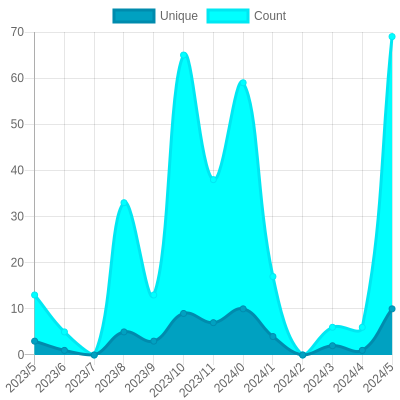
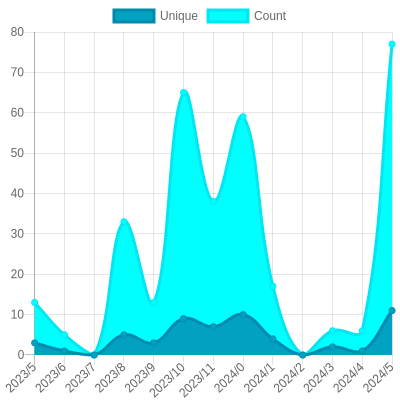
Update views

diff --git a/readme/182812956/year.md b/readme/182812956/year.md
@@ -23,10 +23,10 @@
 			<code>2023/6/1</code>
 		</td>
 		<td>
-			<code>10</code>
+			<code>11</code>
 		</td>
 		<td>
-			<code>69</code>
+			<code>77</code>
 		</td>
 	</tr>
 	<tr>
@@ -164,7 +164,7 @@
 </table>
 
 </details>
-<small><i>Last updated on 2023/6/23 12:16 PM UTC</i></small>
+<small><i>Last updated on 2023/6/23 6:11 PM UTC</i></small>
 
 ## ✂Copy and 📋 Paste
 ### SVG Badge

diff --git a/README.md b/README.md
@@ -85,7 +85,7 @@ The project created and maintained by [gayanvoice](https://github.com/gayanvoice
 	</tr>
 </table>
 
-<small><i>Last updated on 2023/6/23 12:16 PM UTC</i></small>
+<small><i>Last updated on 2023/6/23 6:11 PM UTC</i></small>
 
 ## ✂Copy and 📋 Paste
 ### Total Views Badge

diff --git a/readme/155655077/year.md b/readme/155655077/year.md
@@ -164,7 +164,7 @@
 </table>
 
 </details>
-<small><i>Last updated on 2023/6/23 12:16 PM UTC</i></small>
+<small><i>Last updated on 2023/6/23 6:10 PM UTC</i></small>
 
 ## ✂Copy and 📋 Paste
 ### SVG Badge

diff --git a/readme/290022000/year.md b/readme/290022000/year.md
@@ -164,7 +164,7 @@
 </table>
 
 </details>
-<small><i>Last updated on 2023/6/23 12:16 PM UTC</i></small>
+<small><i>Last updated on 2023/6/23 6:11 PM UTC</i></small>
 
 ## ✂Copy and 📋 Paste
 ### SVG Badge

diff --git a/readme/363189585/year.md b/readme/363189585/year.md
@@ -164,7 +164,7 @@
 </table>
 
 </details>
-<small><i>Last updated on 2023/6/23 12:15 PM UTC</i></small>
+<small><i>Last updated on 2023/6/23 6:10 PM UTC</i></small>
 
 ## ✂Copy and 📋 Paste
 ### SVG Badge
